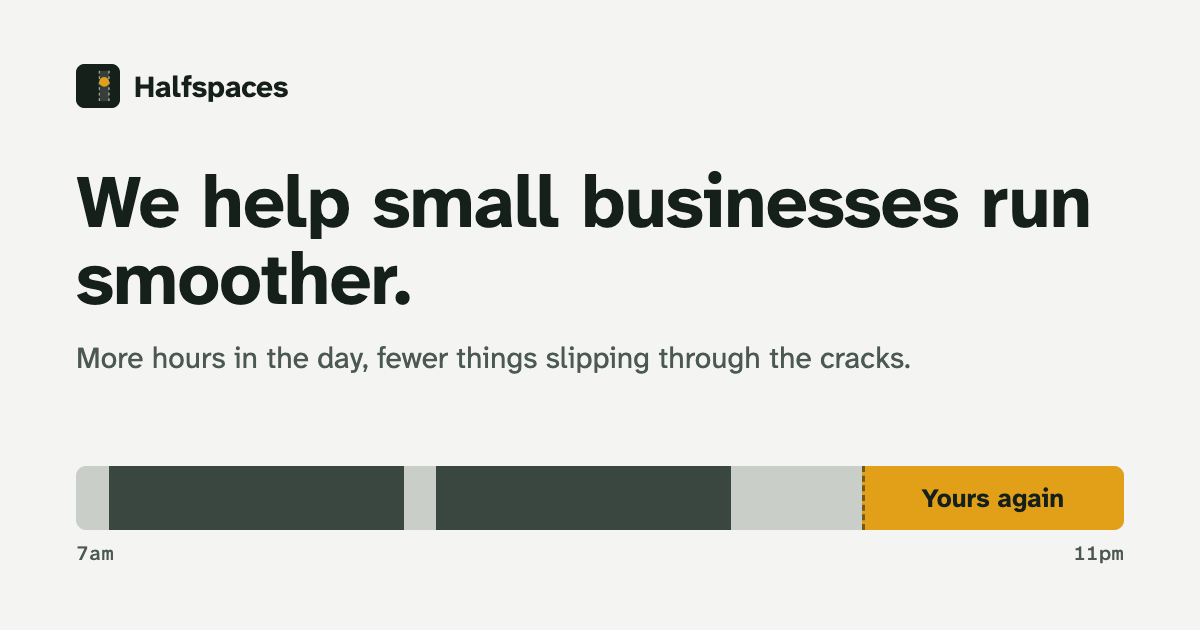
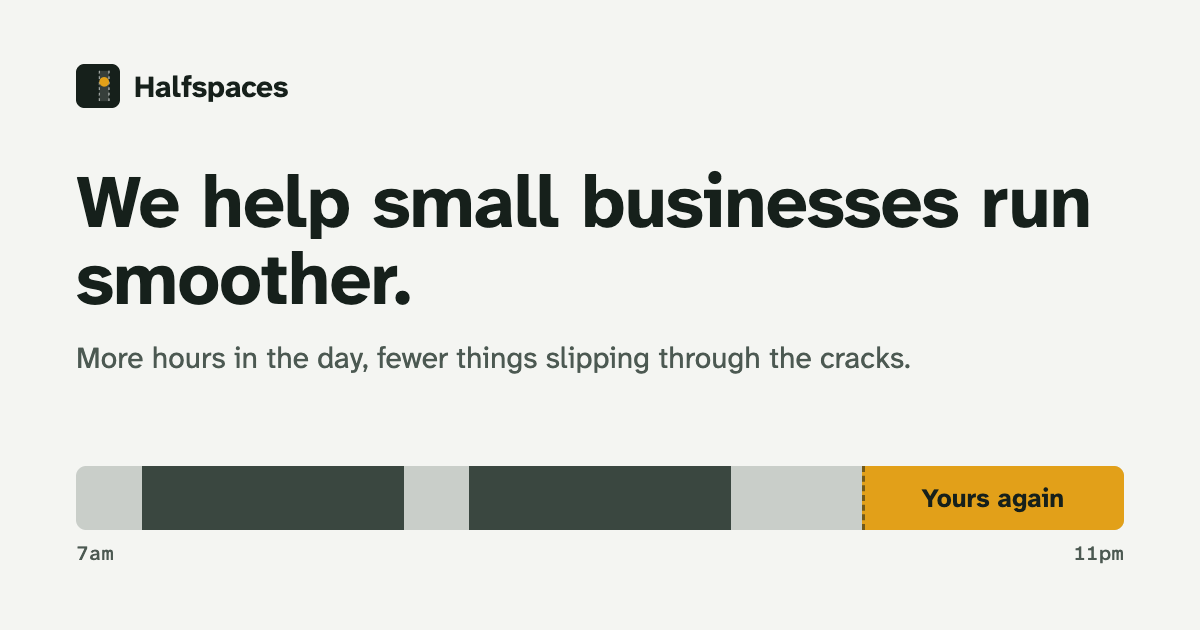
Company page: Codex + cold-reader fixes
Day strip keeps the same work and daytime admin before and after (only the
evening admin becomes time back); "An example of a stretched working day";
evening block labelled on the bar; "Run by Nigel Lin, in Singapore" under the
CTA; founder section stacks on phones; larger tap area on the portfolio link;
share card bar matches.

Claude-Session: https://claude.ai/code/session_01WGar4sk4SFbfnsWGjwF1YV

Changed region(s): [[0.3392, 0.7238, 0.4008, 0.8444], [0.0925, 0.7238, 0.1233, 0.8444]]

diff --git a/index.html b/index.html
@@ -139,6 +139,8 @@
             @keyframes fade { from { opacity: 0; } to { opacity: 1; } }
         }
         .bar .b em { font-style: normal; }
+        .bar .e { display: flex; align-items: center; justify-content: center; font-weight: 600; font-size: 16px; color: var(--ink); }
+        .bar .e em { font-style: normal; }
 
         /* Sections hang from the time margin */
         section { padding: clamp(56px, 8vw, 104px) 0; border-top: 1px solid var(--line); }
@@ -180,6 +182,7 @@
         .founder img { width: 132px; border-radius: 10px; }
         .founder p + p { margin-top: 12px; }
         .founder .muted { color: var(--muted); }
+        .founder .more { display: inline-block; padding: 6px 0; }
 
         /* Finale */
         .finale { background: var(--ink); color: var(--ground); border-top: 0; }
@@ -204,8 +207,8 @@
             .leaks li { grid-template-columns: minmax(0, 1fr); padding: 18px 0; }
             .leaks .said { font-size: 19px; }
             .steps { grid-template-columns: minmax(0, 1fr); gap: 28px; }
-            .founder { grid-template-columns: 96px minmax(0, 1fr); gap: 18px; }
-            .founder img { width: 96px; }
+            .founder { grid-template-columns: minmax(0, 1fr); gap: 18px; }
+            .founder img { width: 112px; }
             .wont li { font-size: 18px; }
             .leaks, .steps, .wont, .founder { margin-top: 28px; }
             .people, .fineprint { margin-top: 18px; }
@@ -234,21 +237,21 @@
             <p class="how"><strong>Common sense, applied rigorously.</strong> Sometimes that means a better process, sometimes a simple tool, sometimes AI. We use whatever is simplest and actually gets used.</p>
             <div class="act">
                 <a class="btn" href="mailto:nigel@halfspaces.co?subject=Enquiry%20from%20halfspaces.co">Email us</a>
-                <span class="note">The first conversation is free.</span>
+                <span class="note">Run by Nigel Lin, in Singapore. The first conversation is free.</span>
             </div>
 
             <figure class="day" aria-labelledby="day-cap">
                 <figcaption id="day-cap" class="legend-head" hidden>An illustrative working day, before and after</figcaption>
                 <div class="day-row">
-                    <div class="day-label"><span>A typical owner&rsquo;s day</span><span>7am to 11pm</span></div>
+                    <div class="day-label"><span>An example of a stretched working day</span><span>7am to 11pm</span></div>
                     <div class="bar" role="img" aria-label="Before: the work fills the middle of the day; admin fills the gaps and the whole evening, until 11pm.">
-                        <i class="a" style="flex-basis:6.25%"></i><i class="w" style="flex-basis:25%"></i><i class="a" style="flex-basis:6.25%"></i><i class="w" style="flex-basis:25%"></i><i class="a" style="flex-basis:12.5%"></i><i class="a" style="flex-basis:25%"></i>
+                        <i class="a" style="flex-basis:6.25%"></i><i class="w" style="flex-basis:25%"></i><i class="a" style="flex-basis:6.25%"></i><i class="w" style="flex-basis:25%"></i><i class="a" style="flex-basis:12.5%"></i><i class="a e" style="flex-basis:25%"><em>Admin</em></i>
                     </div>
                 </div>
                 <div class="day-row after">
-                    <div class="day-label"><span>The same day, once the leaks are fixed</span><span>evening back</span></div>
-                    <div class="bar" role="img" aria-label="After: the same work, much less admin, and the evening from 7pm free.">
-                        <i class="a" style="flex-basis:3.125%"></i><i class="w" style="flex-basis:28.125%"></i><i class="a" style="flex-basis:3.125%"></i><i class="w" style="flex-basis:28.125%"></i><i class="a" style="flex-basis:12.5%"></i><i class="b" style="flex-basis:25%"><em>Yours<span class="again"> again</span></em></i>
+                    <div class="day-label"><span>The same day, once the evening admin is handled</span><span>evening back</span></div>
+                    <div class="bar" role="img" aria-label="After: the same work and daytime admin; the four evening hours of admin, from 7pm, are free.">
+                        <i class="a" style="flex-basis:6.25%"></i><i class="w" style="flex-basis:25%"></i><i class="a" style="flex-basis:6.25%"></i><i class="w" style="flex-basis:25%"></i><i class="a" style="flex-basis:12.5%"></i><i class="b" style="flex-basis:25%"><em>Yours<span class="again"> again</span></em></i>
                     </div>
                     <div class="ticks" aria-hidden="true"><span style="left:0">7am</span><span style="left:31.25%">12pm</span><span style="left:75%">7pm</span><span style="left:100%">11pm</span></div>
                 </div>
@@ -323,7 +326,7 @@
                     <div>
                         <p>Halfspaces is run by Nigel Lin. He spent fourteen years in consumer research, most recently five years at Milieu Insight in Singapore, working out what people need and what gets in their way.</p>
                         <p class="muted">Now he does that inside small businesses, and builds the fixes himself.</p>
-                        <p style="margin-top:16px"><a href="/nigel/">More about Nigel, and things he has built</a></p>
+                        <p style="margin-top:12px"><a class="more" href="/nigel/">More about Nigel, and things he has built</a></p>
                     </div>
                 </div>
             </div>
